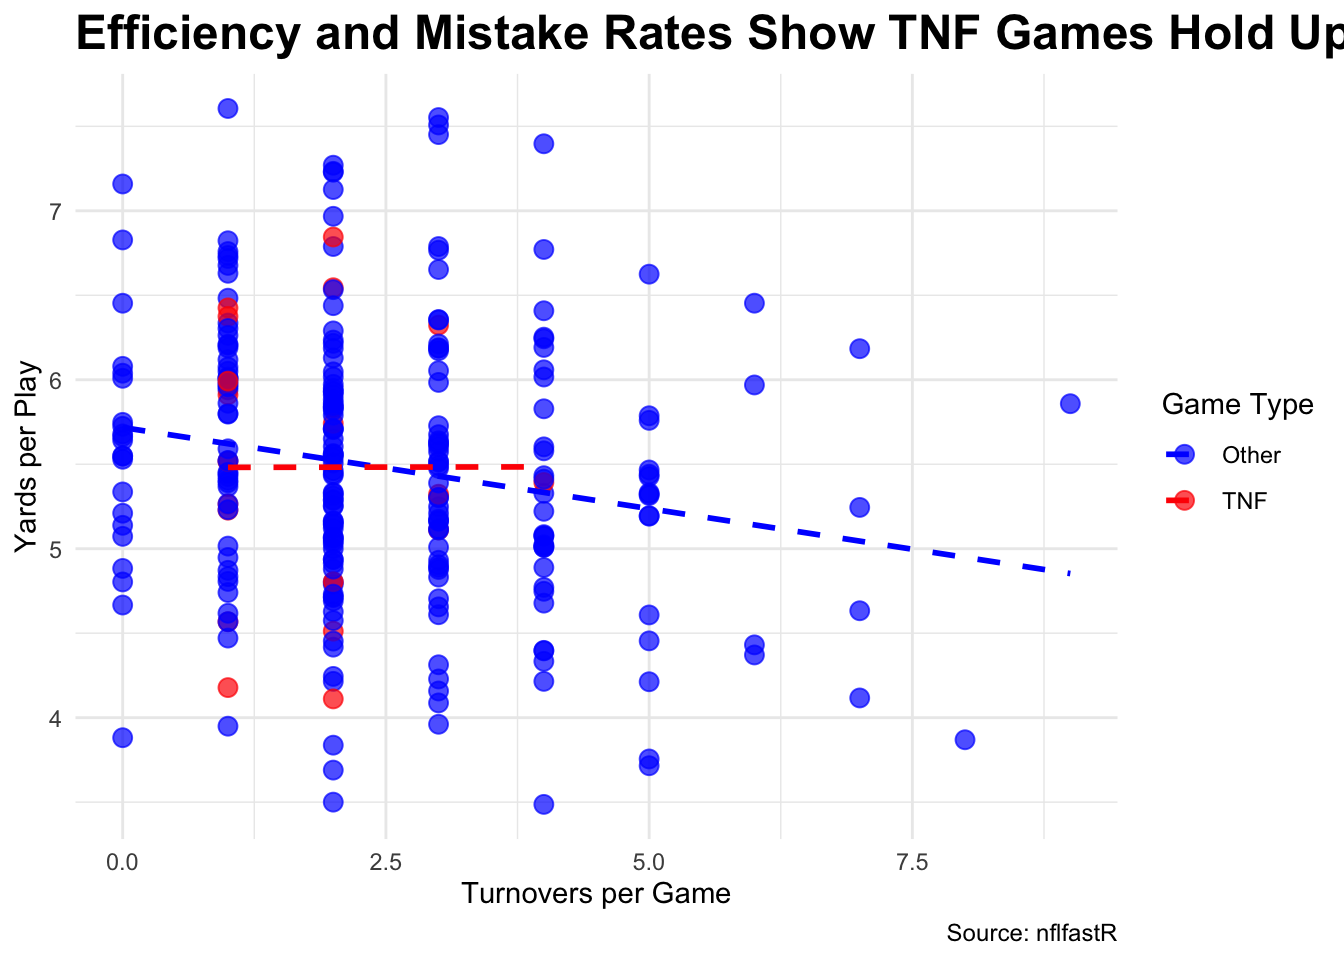
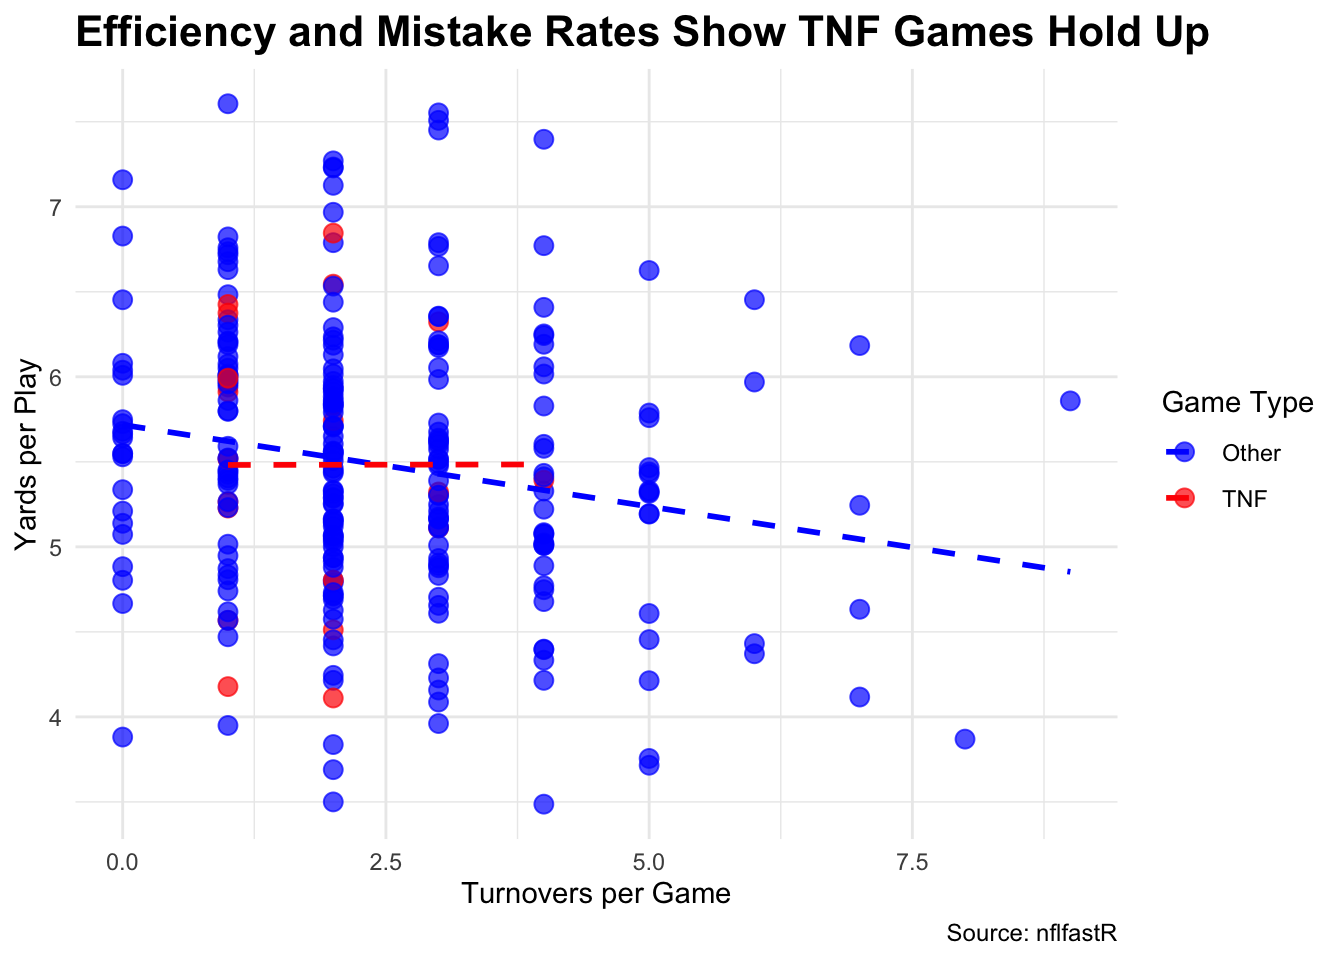
changes

diff --git a/posts/Thursday-Night-Football/Index.html b/posts/Thursday-Night-Football/Index.html
@@ -246,7 +246,7 @@ pre > code.sourceCode > span > a:first-child::before { text-decoration: underlin
 <span id="cb1-47"><a href="#cb1-47" aria-hidden="true" tabindex="-1"></a>  <span class="fu">theme_minimal</span>() <span class="sc">+</span></span>
 <span id="cb1-48"><a href="#cb1-48" aria-hidden="true" tabindex="-1"></a>  <span class="fu">theme</span>(</span>
 <span id="cb1-49"><a href="#cb1-49" aria-hidden="true" tabindex="-1"></a>    <span class="at">legend.position =</span> <span class="st">"none"</span>,</span>
-<span id="cb1-50"><a href="#cb1-50" aria-hidden="true" tabindex="-1"></a>    <span class="at">plot.title =</span> <span class="fu">element_text</span>(<span class="at">face =</span> <span class="st">"bold"</span>, <span class="at">size =</span> <span class="dv">18</span>),  </span>
+<span id="cb1-50"><a href="#cb1-50" aria-hidden="true" tabindex="-1"></a>    <span class="at">plot.title =</span> <span class="fu">element_text</span>(<span class="at">face =</span> <span class="st">"bold"</span>, <span class="at">size =</span> <span class="dv">16</span>),  </span>
 <span id="cb1-51"><a href="#cb1-51" aria-hidden="true" tabindex="-1"></a>    <span class="at">plot.caption =</span> <span class="fu">element_text</span>(<span class="at">size =</span> <span class="dv">9</span>)                 </span>
 <span id="cb1-52"><a href="#cb1-52" aria-hidden="true" tabindex="-1"></a>  ) </span></code></pre></div><button title="Copy to Clipboard" class="code-copy-button"><i class="bi"></i></button></div>
 </details>
@@ -301,7 +301,7 @@ pre > code.sourceCode > span > a:first-child::before { text-decoration: underlin
 <span id="cb2-36"><a href="#cb2-36" aria-hidden="true" tabindex="-1"></a>  ) <span class="sc">+</span></span>
 <span id="cb2-37"><a href="#cb2-37" aria-hidden="true" tabindex="-1"></a>  <span class="fu">theme_minimal</span>() <span class="sc">+</span></span>
 <span id="cb2-38"><a href="#cb2-38" aria-hidden="true" tabindex="-1"></a>  <span class="fu">theme</span>(</span>
-<span id="cb2-39"><a href="#cb2-39" aria-hidden="true" tabindex="-1"></a>    <span class="at">plot.title =</span> <span class="fu">element_text</span>(<span class="at">face =</span> <span class="st">"bold"</span>, <span class="at">size =</span> <span class="dv">20</span>),</span>
+<span id="cb2-39"><a href="#cb2-39" aria-hidden="true" tabindex="-1"></a>    <span class="at">plot.title =</span> <span class="fu">element_text</span>(<span class="at">face =</span> <span class="st">"bold"</span>, <span class="at">size =</span> <span class="dv">16</span>),</span>
 <span id="cb2-40"><a href="#cb2-40" aria-hidden="true" tabindex="-1"></a>    <span class="at">plot.caption =</span> <span class="fu">element_text</span>(<span class="at">size =</span> <span class="dv">9</span>)</span>
 <span id="cb2-41"><a href="#cb2-41" aria-hidden="true" tabindex="-1"></a>  ) </span></code></pre></div><button title="Copy to Clipboard" class="code-copy-button"><i class="bi"></i></button></div>
 </details>
@@ -358,7 +358,7 @@ pre > code.sourceCode > span > a:first-child::before { text-decoration: underlin
 <span id="cb3-39"><a href="#cb3-39" aria-hidden="true" tabindex="-1"></a>  ) <span class="sc">+</span></span>
 <span id="cb3-40"><a href="#cb3-40" aria-hidden="true" tabindex="-1"></a>  <span class="fu">theme_minimal</span>() <span class="sc">+</span></span>
 <span id="cb3-41"><a href="#cb3-41" aria-hidden="true" tabindex="-1"></a>  <span class="fu">theme</span>(</span>
-<span id="cb3-42"><a href="#cb3-42" aria-hidden="true" tabindex="-1"></a>    <span class="at">plot.title =</span> <span class="fu">element_text</span>(<span class="at">face =</span> <span class="st">"bold"</span>, <span class="at">size =</span> <span class="dv">18</span>),</span>
+<span id="cb3-42"><a href="#cb3-42" aria-hidden="true" tabindex="-1"></a>    <span class="at">plot.title =</span> <span class="fu">element_text</span>(<span class="at">face =</span> <span class="st">"bold"</span>, <span class="at">size =</span> <span class="dv">16</span>),</span>
 <span id="cb3-43"><a href="#cb3-43" aria-hidden="true" tabindex="-1"></a>    <span class="at">plot.caption =</span> <span class="fu">element_text</span>(<span class="at">size =</span> <span class="dv">9</span>)</span>
 <span id="cb3-44"><a href="#cb3-44" aria-hidden="true" tabindex="-1"></a>  )</span></code></pre></div><button title="Copy to Clipboard" class="code-copy-button"><i class="bi"></i></button></div>
 </details>

diff --git a/index.html b/index.html
@@ -258,7 +258,7 @@ Brady J. Anderson
 </a>
 </div>
 </div>
-<div class="quarto-post image-right" data-index="2" data-listing-date-sort="1765260000000" data-listing-file-modified-sort="1765248500762" data-listing-date-modified-sort="NaN" data-listing-reading-time-sort="5" data-listing-word-count-sort="979">
+<div class="quarto-post image-right" data-index="2" data-listing-date-sort="1765260000000" data-listing-file-modified-sort="1765321530364" data-listing-date-modified-sort="NaN" data-listing-reading-time-sort="5" data-listing-word-count-sort="979">
 <div class="thumbnail"><a href="./posts/Thursday-Night-Football/Index.html" class="no-external">
 
 <img loading="lazy" src="./posts/Thursday-Night-Football/image.png" class="thumbnail-image">
